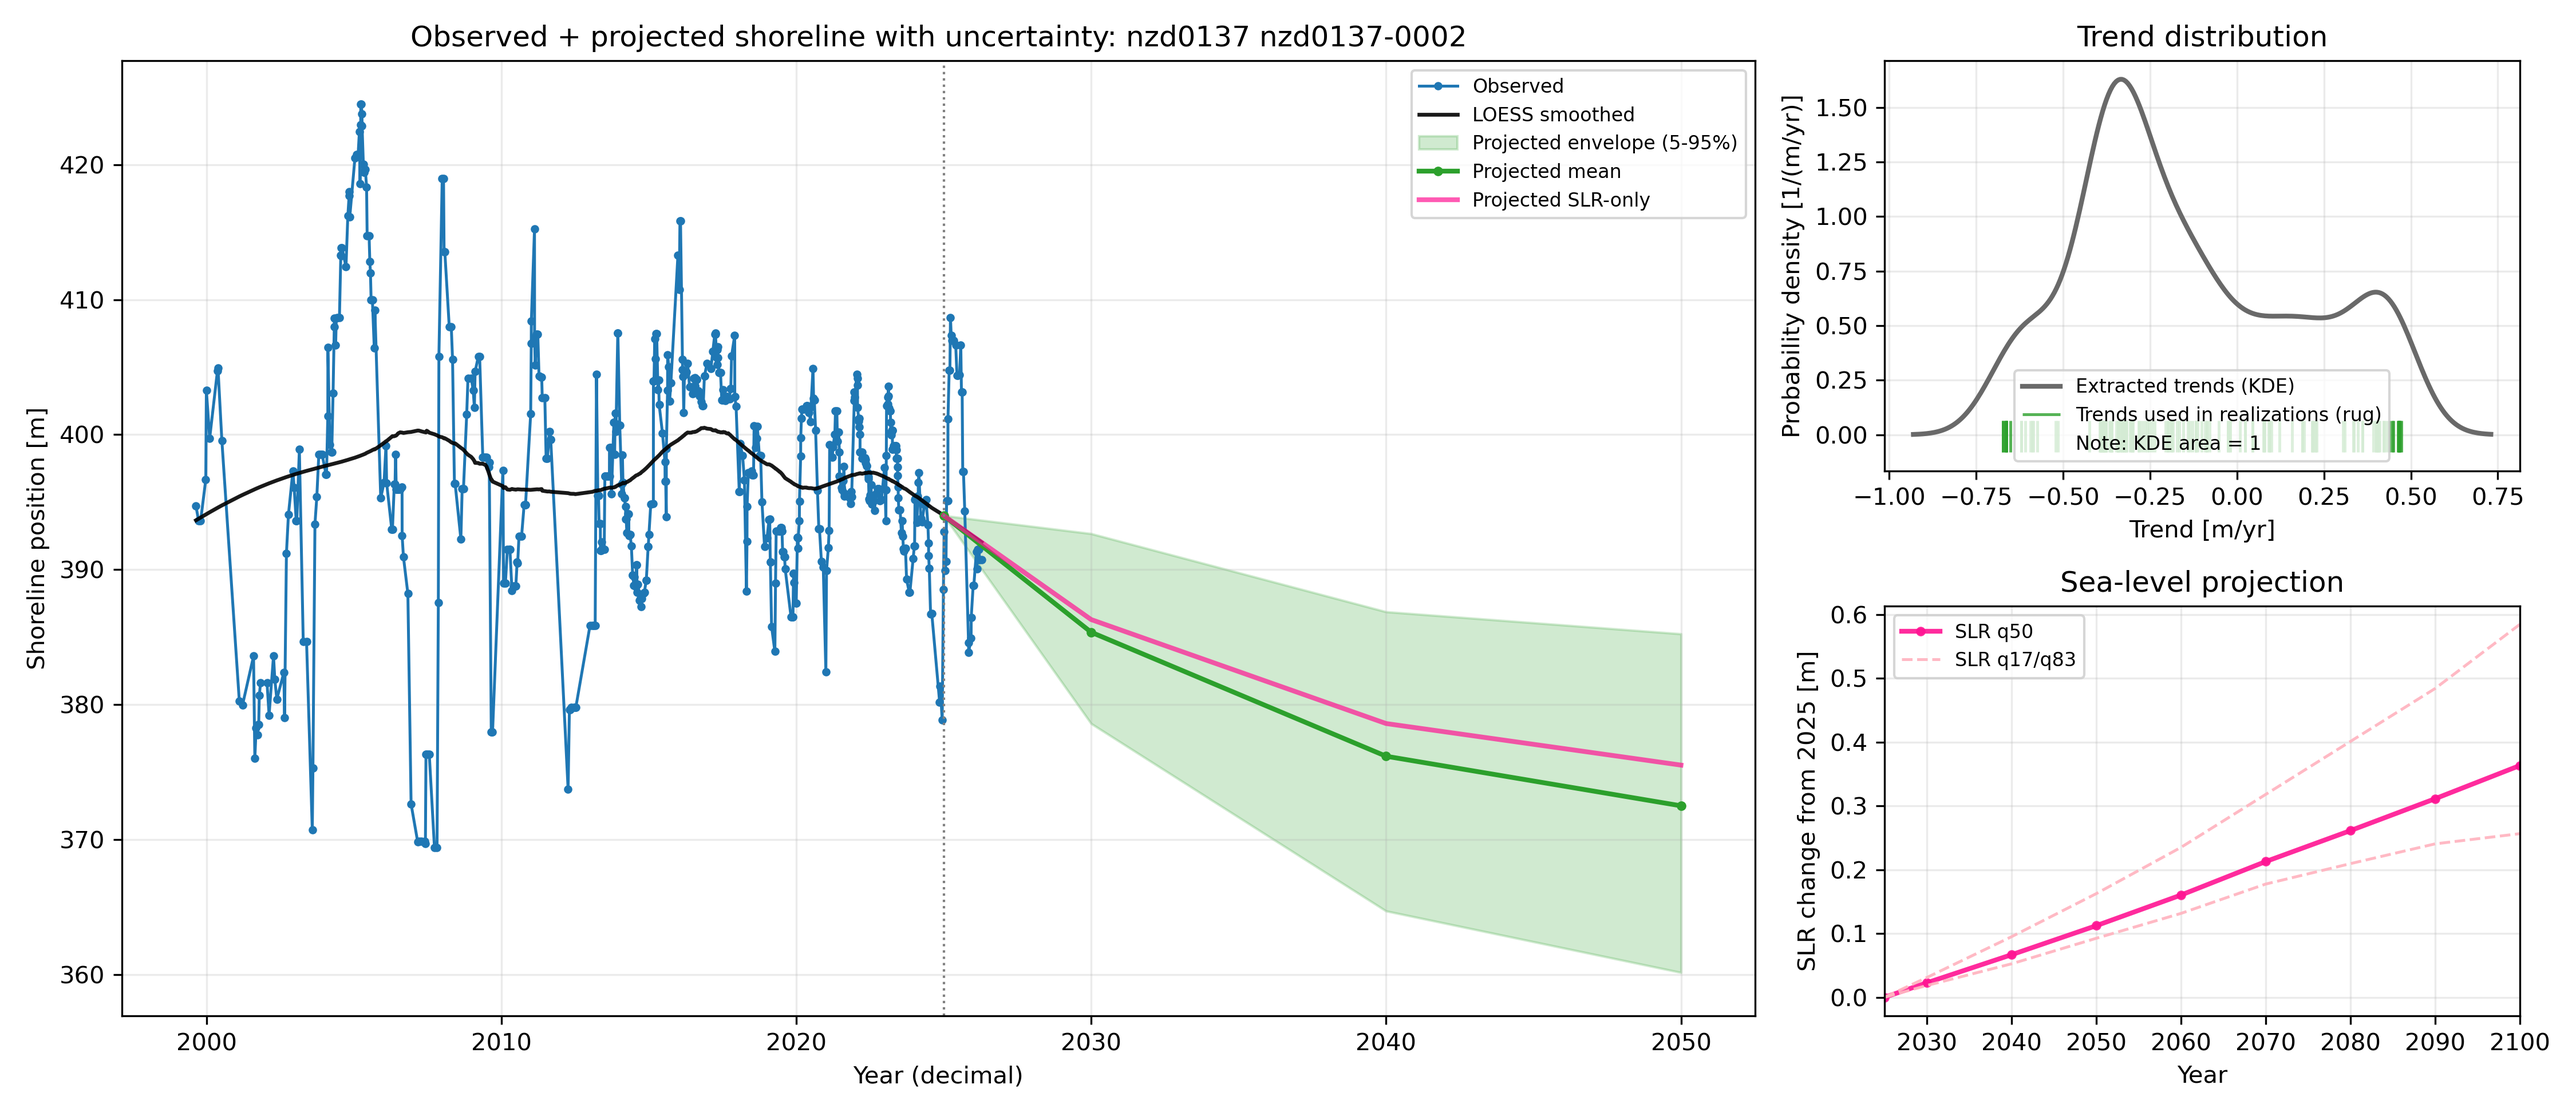
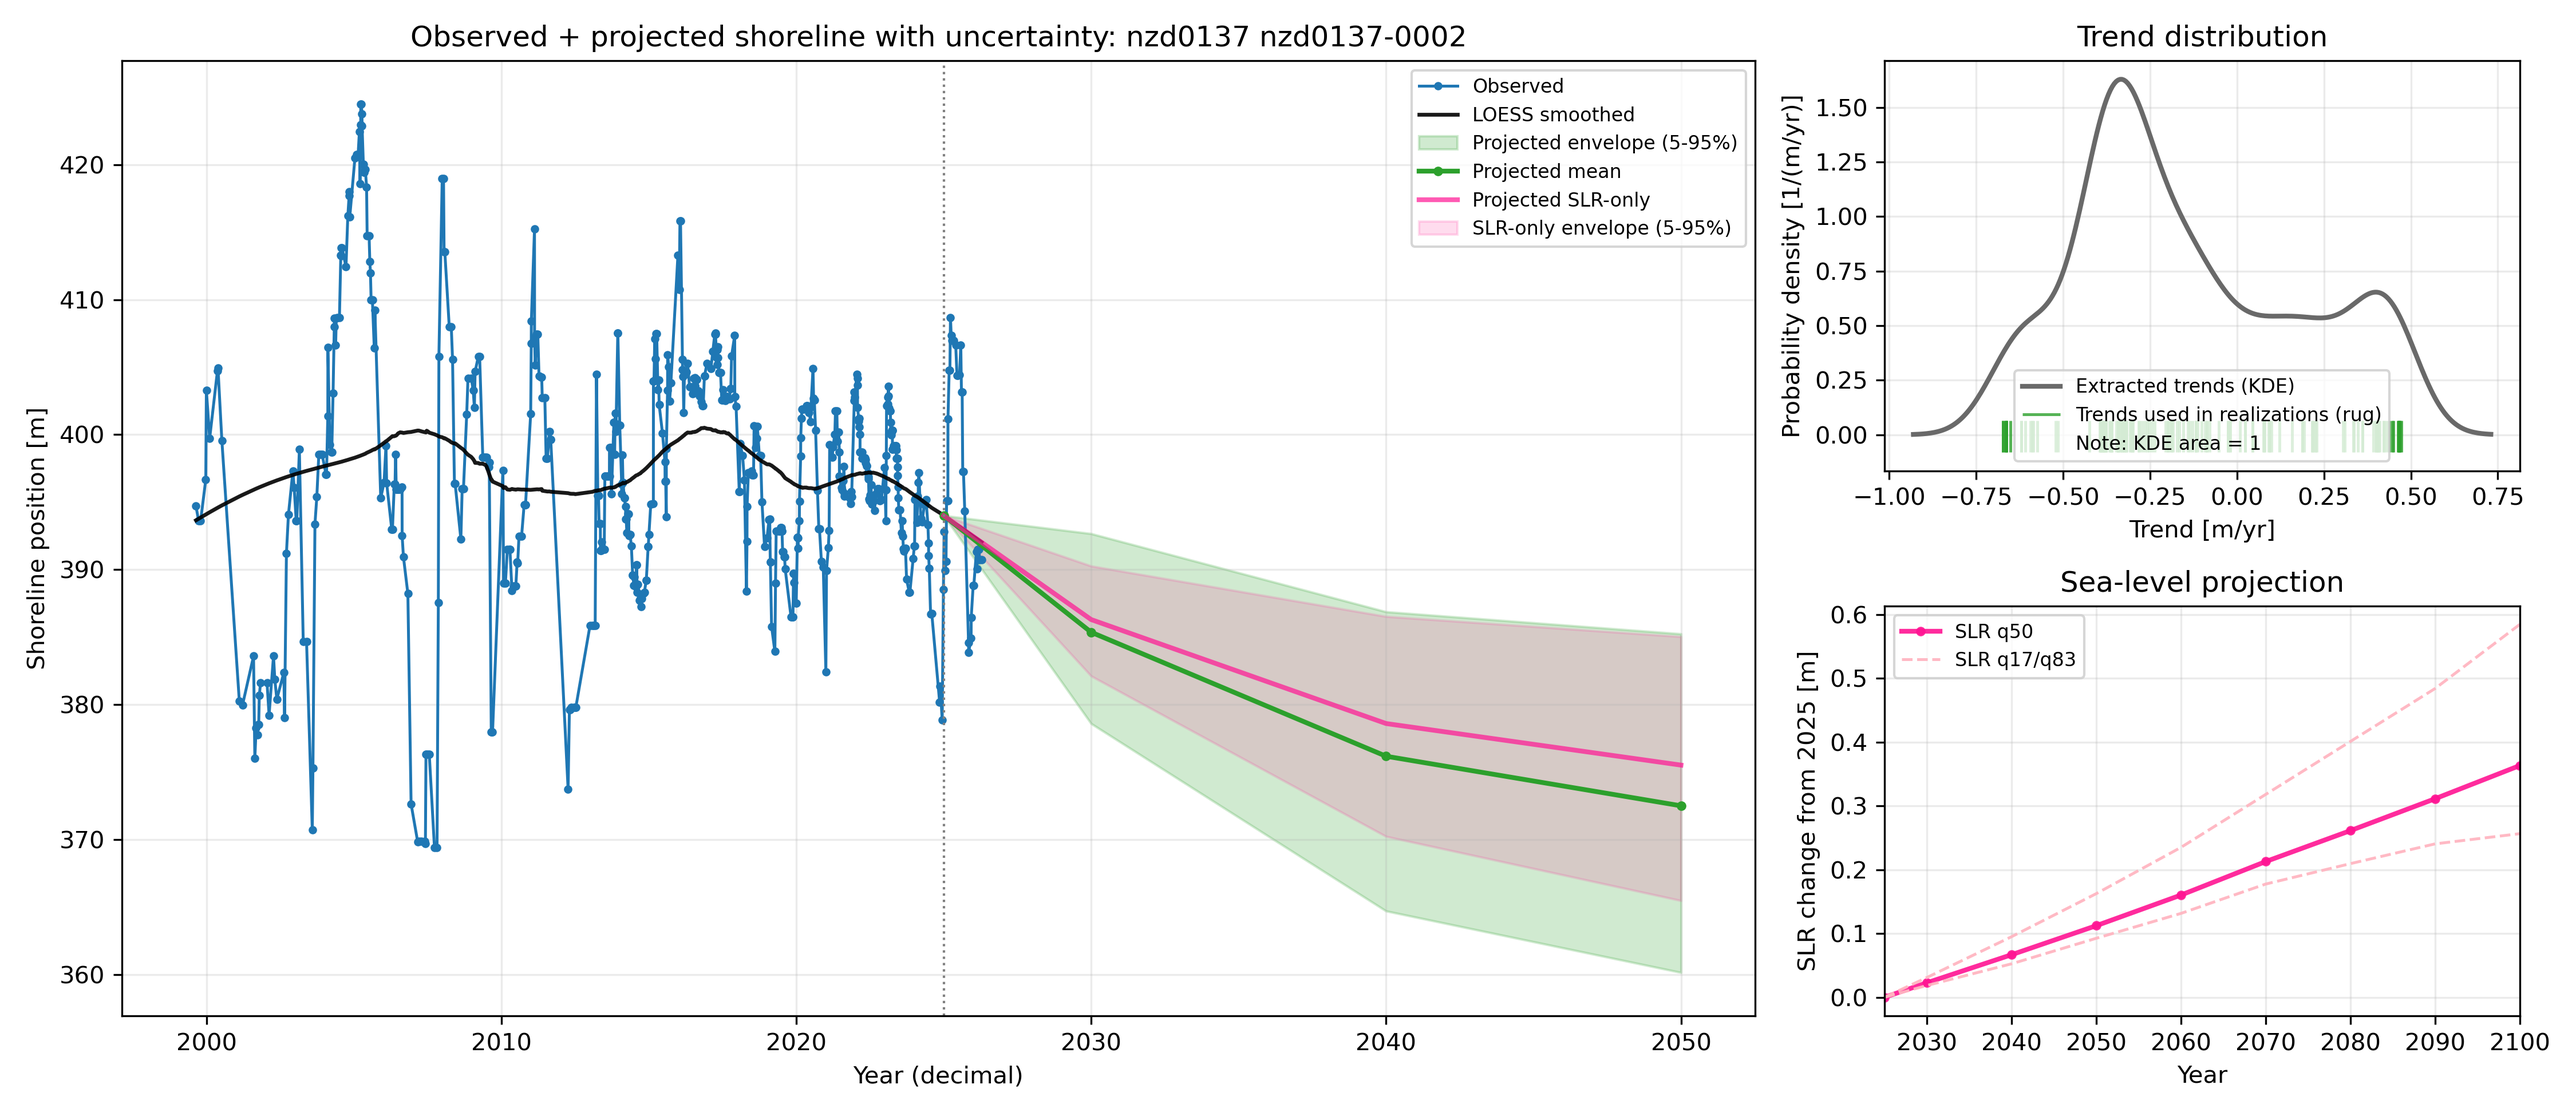
Adding slr uncertainty
no deberia la incertidumbre del trend, quedarme en el mismo lugar numerico. es deceir, cuando le anadimos la incertidumbre del slr, deberia expandirse la sombra

Changed region(s): [[0.3733, 0.4615, 0.6533, 0.8], [0.5289, 0.1846, 0.6844, 0.2154]]

diff --git a/viz.py b/viz.py
@@ -189,6 +189,8 @@ def prepare_observed_and_projected_single_run_data(
             axis=1,
         )
         slr_only_shoreline_mean = np.mean(slr_only_shoreline_all, axis=0)
+        slr_only_shoreline_q05 = np.quantile(slr_only_shoreline_all, 0.05, axis=0)
+        slr_only_shoreline_q95 = np.quantile(slr_only_shoreline_all, 0.95, axis=0)
 
     if slr_years.size > 0:
         slr_order = np.argsort(slr_years)
@@ -228,6 +230,8 @@ def prepare_observed_and_projected_single_run_data(
         "proj_shoreline_q05": proj_shoreline_q05,
         "proj_shoreline_q95": proj_shoreline_q95,
         "slr_only_shoreline_mean": slr_only_shoreline_mean,
+        "slr_only_shoreline_q05": slr_only_shoreline_q05,
+        "slr_only_shoreline_q95": slr_only_shoreline_q95,
         "t_loess": t_loess,
         "y_loess": y_loess,
         "is_ensemble": bool(dy_matrix.shape[0] > 1),
@@ -257,6 +261,8 @@ def plot_observed_and_projected_single_run_from_processed(
     proj_shoreline_q05 = prepared["proj_shoreline_q05"]
     proj_shoreline_q95 = prepared["proj_shoreline_q95"]
     slr_only_shoreline_mean = prepared["slr_only_shoreline_mean"]
+    slr_only_shoreline_q05 = prepared["slr_only_shoreline_q05"]
+    slr_only_shoreline_q95 = prepared["slr_only_shoreline_q95"]
     t_loess = prepared["t_loess"]
     y_loess = prepared["y_loess"]
     is_ensemble = prepared["is_ensemble"]
@@ -329,6 +335,14 @@ def plot_observed_and_projected_single_run_from_processed(
             linewidth=2.0,
             alpha=0.7,
             label="Projected SLR-only",
+        )
+        ax.fill_between(
+            proj_years,
+            slr_only_shoreline_q05,
+            slr_only_shoreline_q95,
+            color="deeppink",
+            alpha=0.15,
+            label="SLR-only envelope (5-95%)",
         )
 
     if slr_years.size > 0:
